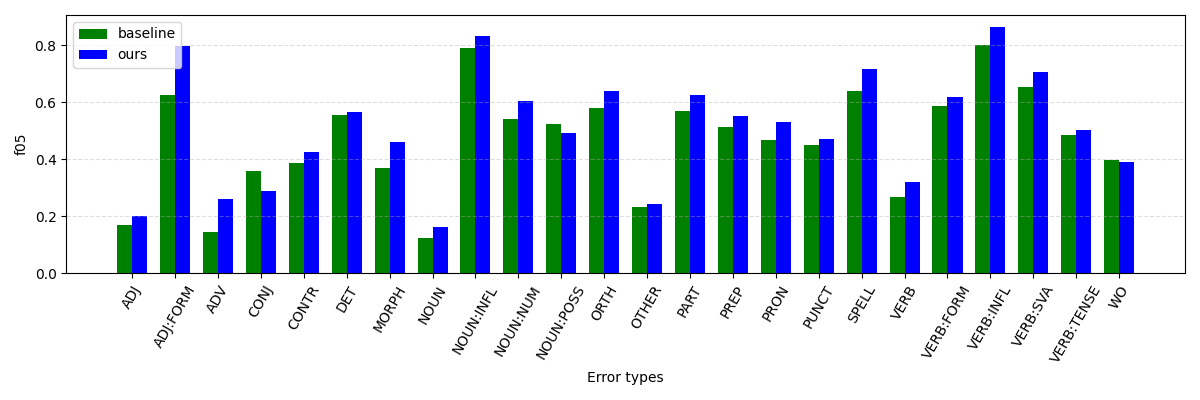
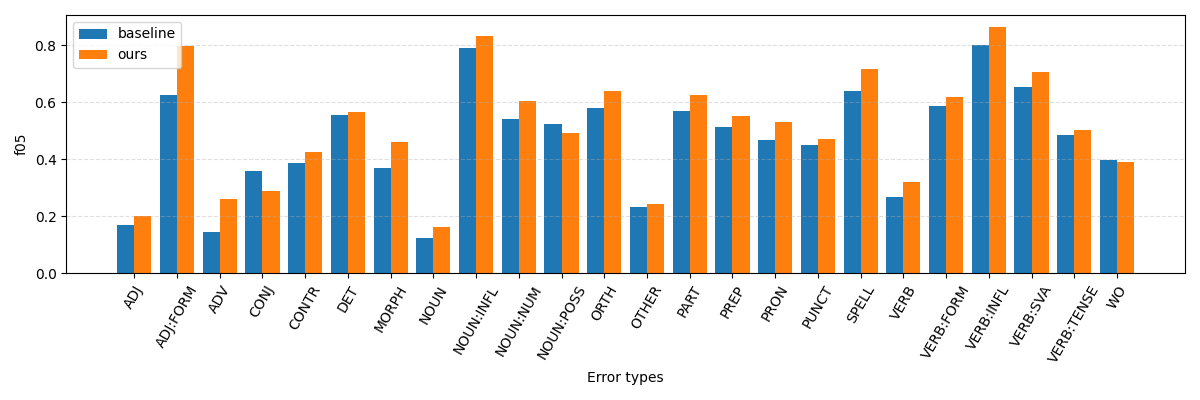
Fixing the look of the plot

diff --git a/gecommon/comparison.py b/gecommon/comparison.py
@@ -114,23 +114,22 @@ class Comparison:
         outpath='out.png'
     ) -> None:
         import matplotlib.pyplot as plt
-        colors = 'gbrcmy'
         fig = plt.figure(figsize=(12, 4))
         ax = fig.add_subplot(111)
         width = 0.7 / len(labels)
         for i in range(len(labels)):
-            x = np.arange(0.5+width*i, self.n_etypes+width*i+0.5, 1)
+            x = np.arange(width*i, self.n_etypes+width*i, 1)
             y = [
                 self.system_performances[labels[i]].etype[etype].__dict__[key] \
                 for etype in self.get_sorted_etype()
             ]
-            plt.bar(x, y, color=colors[i], width=width, label=labels[i], align='center')
+            plt.bar(x, y, width=width, label=labels[i], align='center')
         ax.legend(loc=2)
         ax.yaxis.grid(linestyle='--', alpha=0.4)
         ax.set_xlabel('Error types')
         ax.set_ylabel(key)
         ax.set_xticks([x - width/len(labels) \
-                       for x in np.arange(0.5+width*i, self.n_etypes+width*i+0.5, 1)])
+                       for x in np.arange(width*i, self.n_etypes+width*i, 1)])
         ax.set_xticklabels(list(self.get_sorted_etype()), rotation=60)
         plt.tight_layout()
         plt.savefig(outpath)
